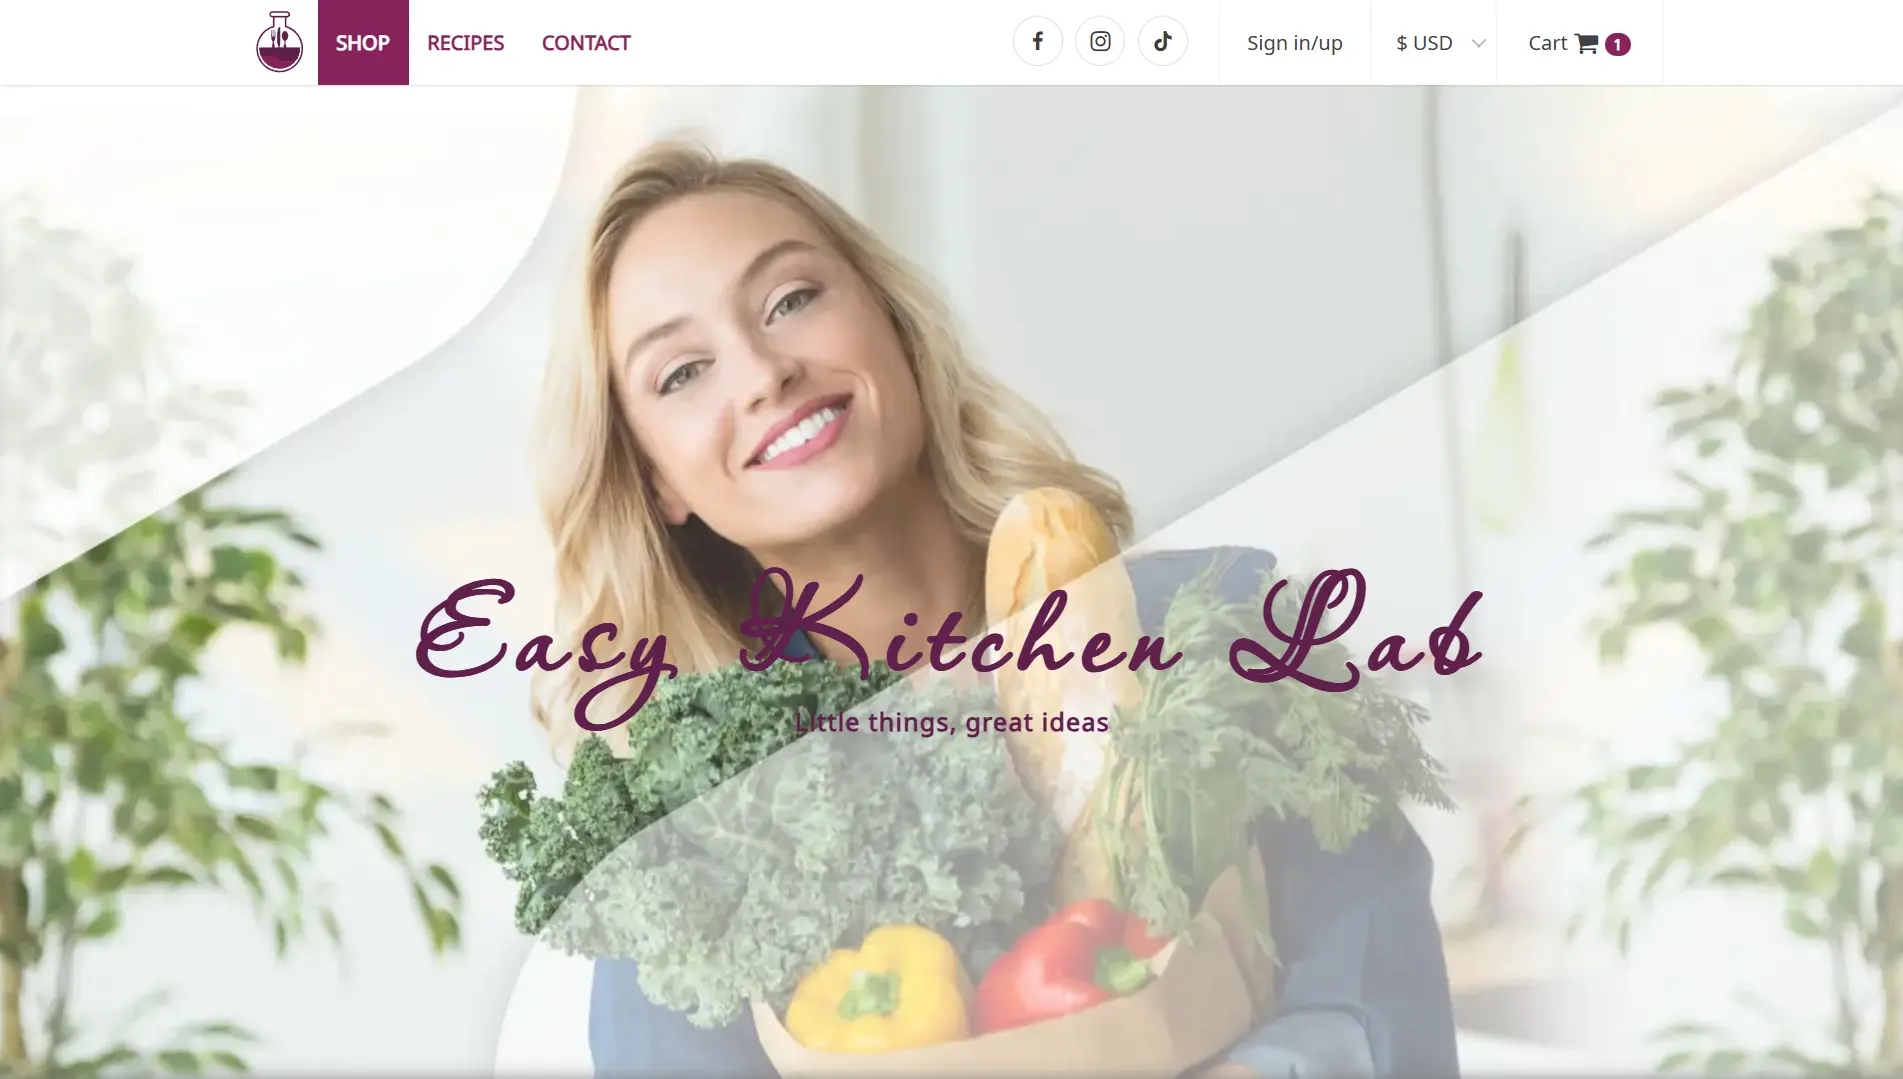
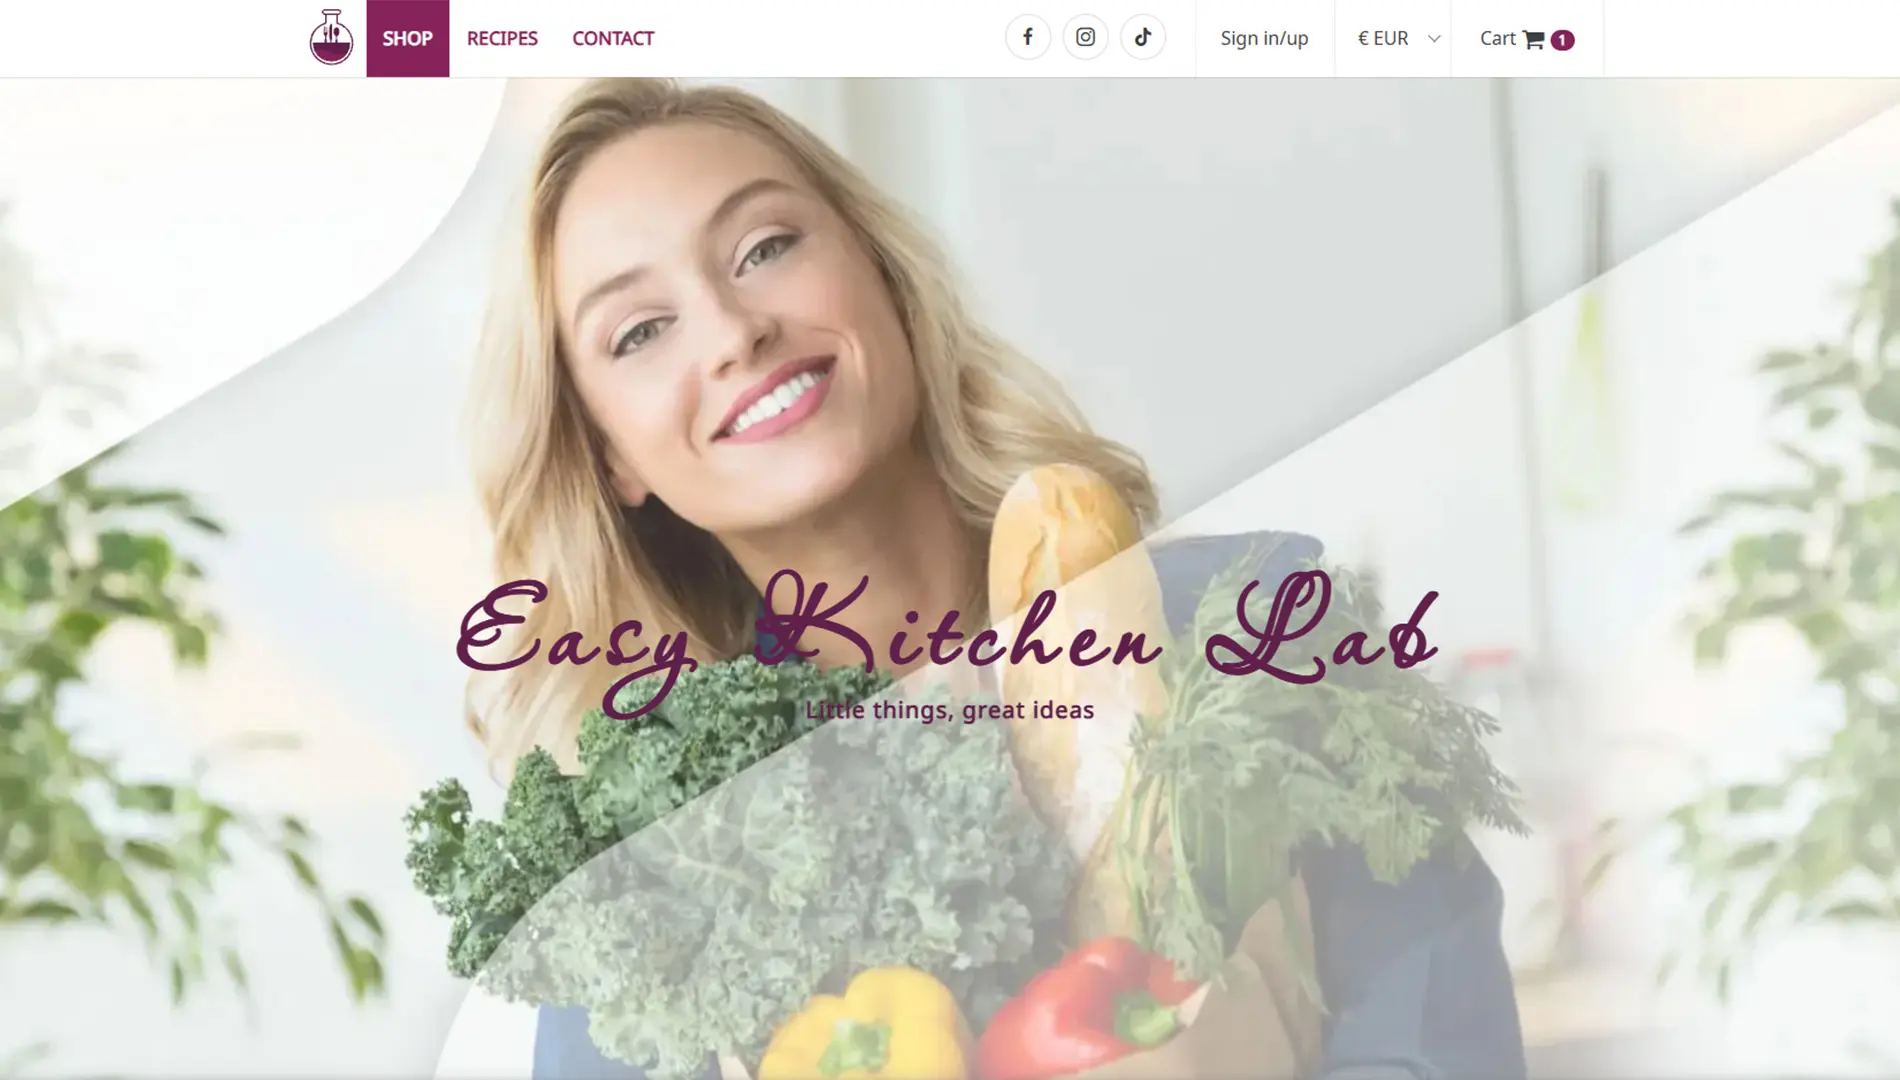
Added all screenshots for fermicoding and easykitchenlab.

diff --git a/client/src/pages/ProjectDetails/CustomSwiperStyle.scss b/client/src/pages/ProjectDetails/CustomSwiperStyle.scss
@@ -2,6 +2,8 @@
 @use "sass:color";
 
 .swiper {
+  filter: drop-shadow(0px 0px 5px rgba(13, 2, 73, 0.2));
+
   .swiper-button-next,
   .swiper-button-prev {
     color: $primary-color;

diff --git a/client/src/pages/ProjectDetails/ProjectDetails.module.scss b/client/src/pages/ProjectDetails/ProjectDetails.module.scss
@@ -92,7 +92,7 @@
   }
 }
 
-.screenshotsSection {
+.screenshotsSection {  
   img {
     width: 100%;
     border-radius: $input-radius;
